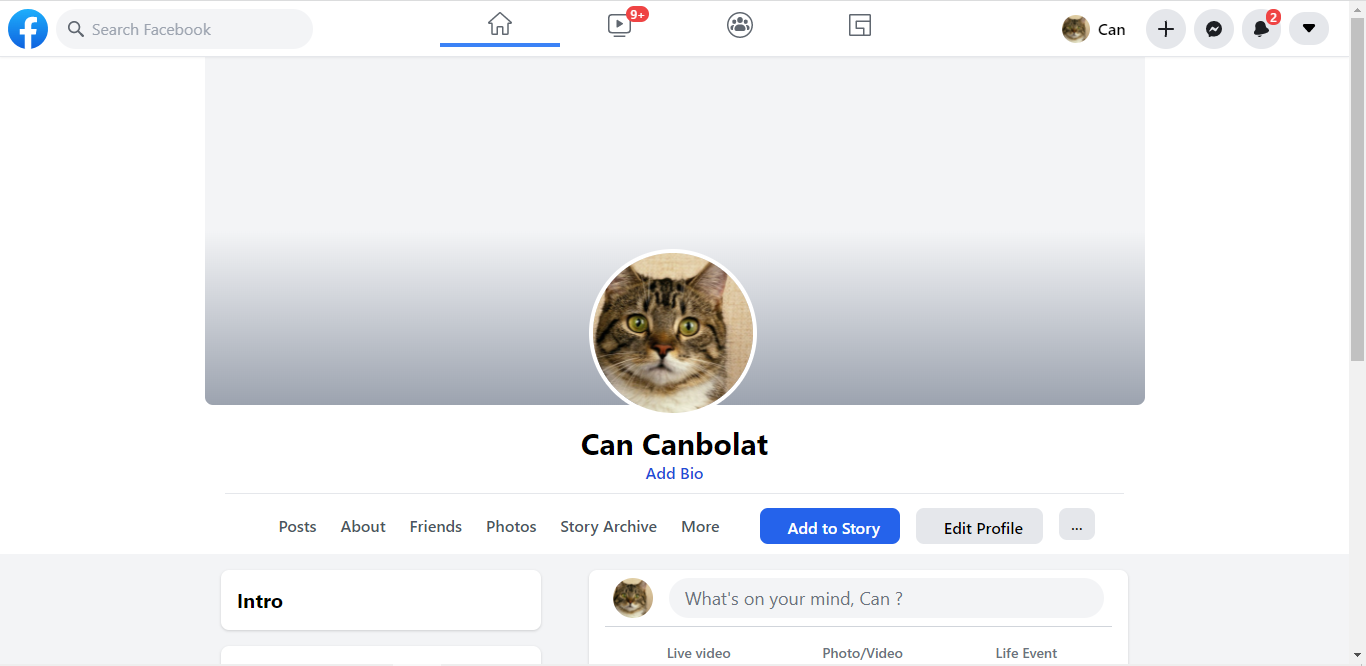
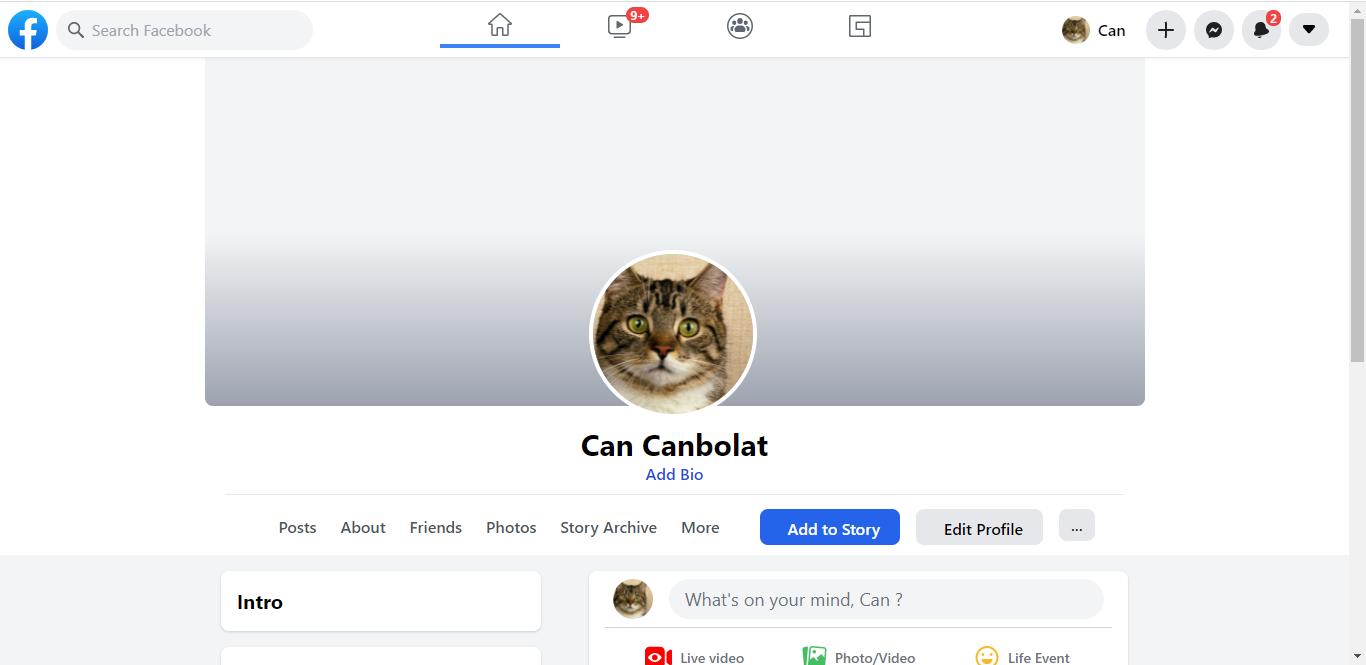
Update ss1, Header.js and CreatePost.js

diff --git a/src/components/Post/CreatePost.js b/src/components/Post/CreatePost.js
@@ -1,4 +1,5 @@
 import React from 'react'
+import { Feeling, Image, LiveVideo } from '../../icons'
 
 function CreatePost() {
     return (
@@ -15,15 +16,15 @@ function CreatePost() {
                 </div>
                 <div className="p-2 flex">
                     <div className="w-1/3 flex space-x-2 justify-center items-center hover:bg-gray-100 dark:hover:bg-dark-third text-xl sm:text-3xl py-2 rounded-lg cursor-pointer text-red-500">
-                        <i className='bx bxs-video-plus'></i>
+                        <LiveVideo />
                         <span className="text-xs sm:text-sm font-semibold text-gray-500 dark:text-dark-txt">Live video</span>
                     </div>
                     <div className="w-1/3 flex space-x-2 justify-center items-center hover:bg-gray-100 dark:hover:bg-dark-third text-xl sm:text-3xl py-2 rounded-lg cursor-pointer text-green-500">
-                        <i className='bx bx-images'></i>
+                        <Image />
                         <span className="text-xs sm:text-sm font-semibold text-gray-500 dark:text-dark-txt">Photo/Video</span>
                     </div>
                     <div className="w-1/3 flex space-x-2 justify-center items-center hover:bg-gray-100 dark:hover:bg-dark-third text-xl sm:text-3xl py-2 rounded-lg cursor-pointer text-yellow-500">
-                        <i className='bx bx-smile'></i>
+                        <Feeling />
                         <span className="text-xs sm:text-sm font-semibold text-gray-500 dark:text-dark-txt">Life Event</span>
                     </div>
                 </div>

diff --git a/src/components/Header/Header.js b/src/components/Header/Header.js
@@ -1,15 +1,6 @@
 import React, { useState, useEffect } from 'react'
-import { Link, NavLink, useHistory } from "react-router-dom";
-import FacebookLogo from '../../icons/facebookLogo';
-import SearchIcon from '../../icons/searchIcon';
-import Plus from '../../icons/plus';
-import Messenger from '../../icons/messenger';
-import DownArrow from '../../icons/downArrow';
-import Bell from '../../icons/bell';
-import Home from '../../icons/home';
-import Watch from '../../icons/watch';
-import Groups from '../../icons/groups';
-import Feed from '../../icons/feed';
+import { Link } from "react-router-dom";
+import { FacebookLogo, SearchIcon, Plus, Messenger, DownArrow, Bell, Home, Watch, Groups, Feed } from '../../icons'
 
 
 function Header() {
